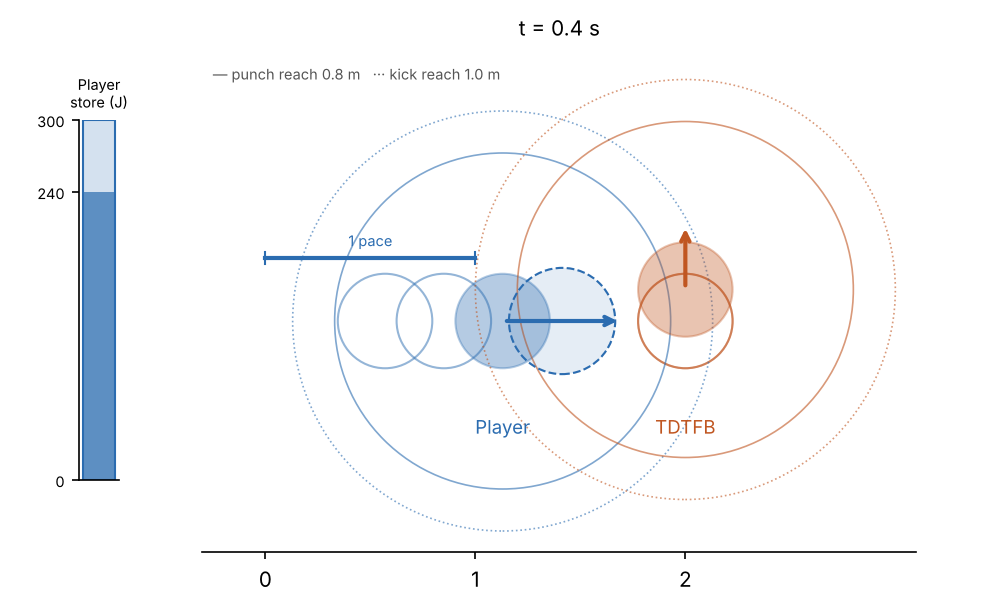
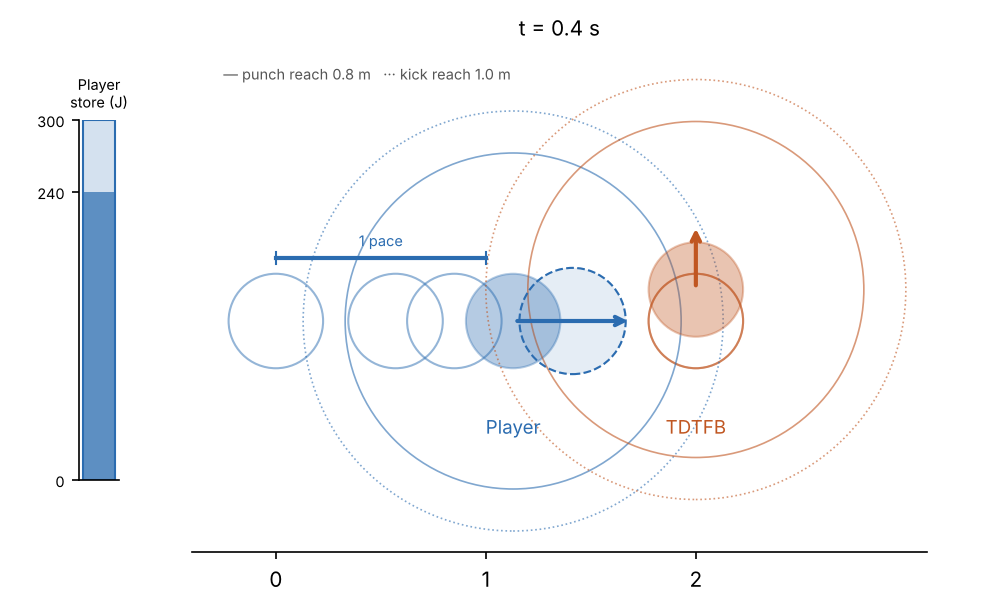
Combat frame: show player start position
Claude-Session: https://claude.ai/code/session_01RGpbufgYSJT2n4v1xECmZw

diff --git a/docs/combat/frames/render_frame.py b/docs/combat/frames/render_frame.py
@@ -10,6 +10,7 @@ STATE = [  # name, x, y, vx, vy, color
     ("TDTFB", 2.00, 0.15, 0.00, 1.55, "#c05621"),
 ]
 HISTORY = [  # (x, y, color) at earlier turns, drawn as empty circles
+    (0.00, 0.00, "#2b6cb0"),  # player start (t=0)
     (0.57, 0.00, "#2b6cb0"), (0.85, 0.00, "#2b6cb0"),  # player t=0.2, 0.3
     (2.00, 0.00, "#c05621"), (2.00, 0.00, "#c05621"),  # TDTFB t=0.2, 0.3
 ]
@@ -35,7 +36,7 @@ for name, x, y, vx, vy, c in STATE:
     for R, ls in ((0.8, "-"), (1.0, ":")):  # punch / kick reach from body centre
         ax.add_patch(Circle((x, y), R, fill=False, color=c, ls=ls, lw=.8, alpha=.6))
     ax.text(x, -.45, name, ha="center", va="top", fontsize=9, color=c)
-ax.set_aspect("equal"); ax.set_xlim(-.3, 3.1); ax.set_ylim(-1.1, 1.3)
+ax.set_aspect("equal"); ax.set_xlim(-.4, 3.1); ax.set_ylim(-1.1, 1.3)
 ax.set_xticks([0, 1, 2]); ax.set_yticks([])
 ax.set_xlabel("m"); ax.set_title(f"t = {t} s", fontsize=10)
 for s in ("top", "right", "left"): ax.spines[s].set_visible(False)
